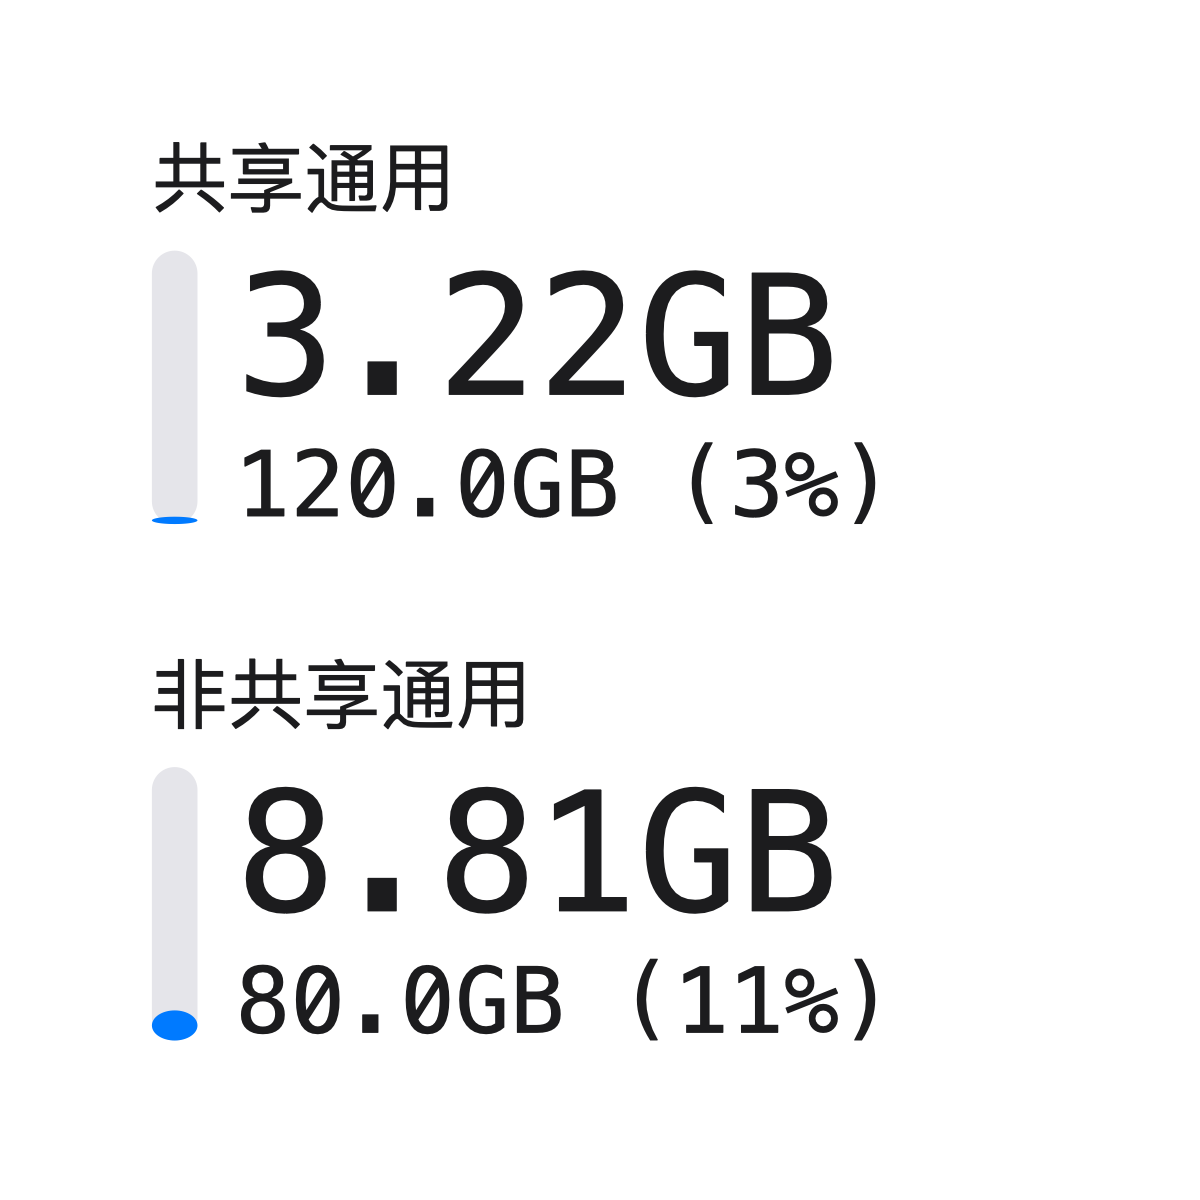
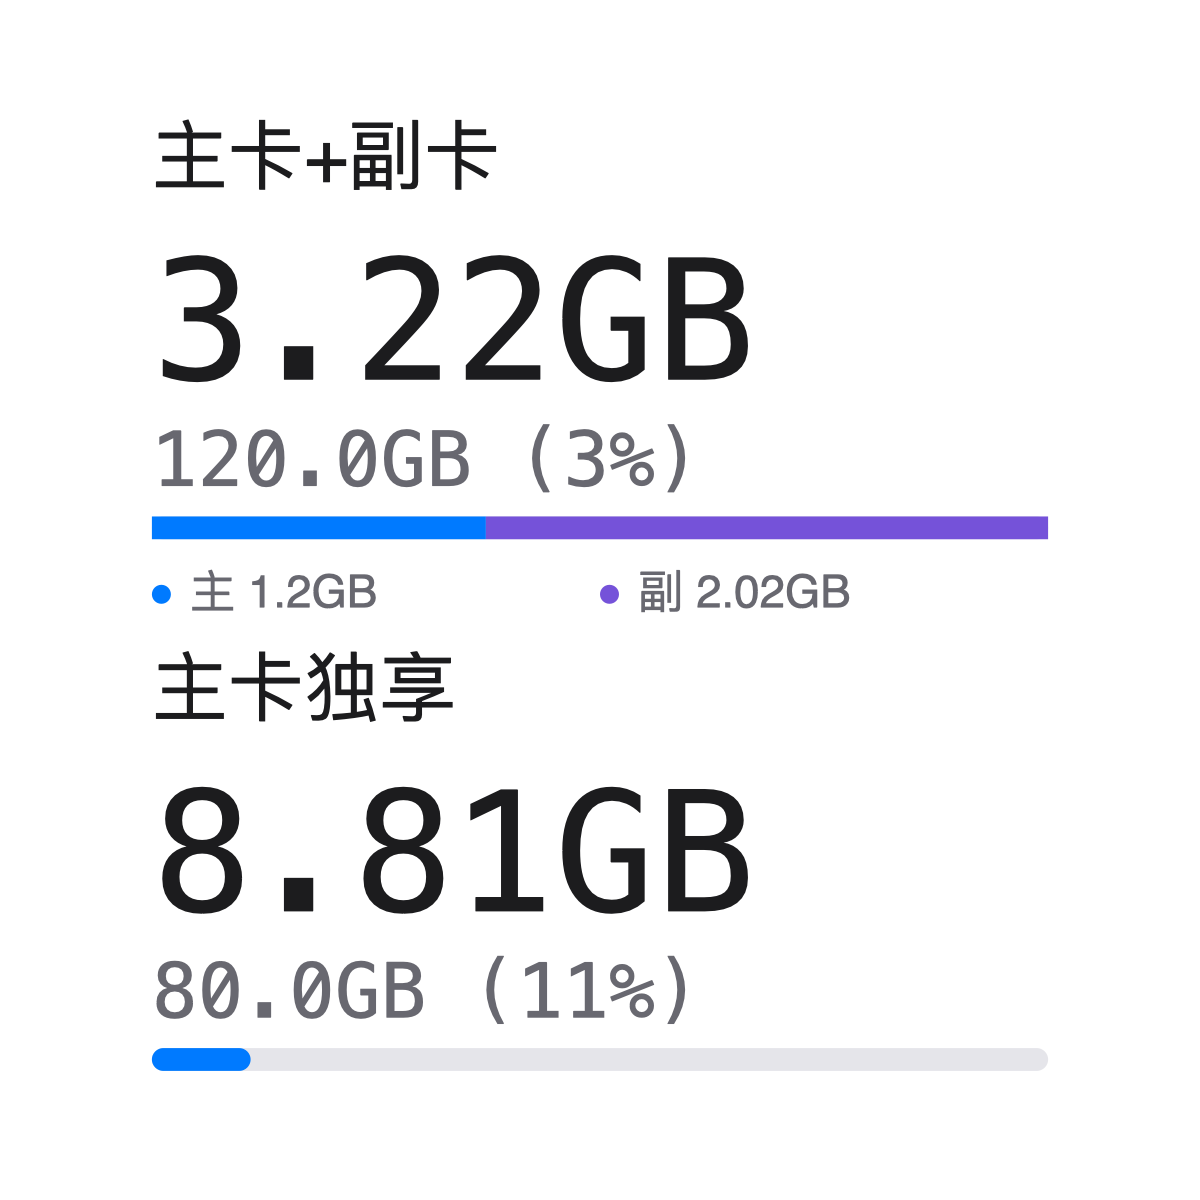
Show shared usage by card color and sync latest widget directly

Changed region(s): [[0.1233, 0.0925, 0.8942, 0.8942]]

diff --git a/docs/unicom-flow/README.md b/docs/unicom-flow/README.md
@@ -26,19 +26,17 @@
 
 ## 脚本更新
 
-首次安装使用[仓库原始脚本](https://raw.githubusercontent.com/42vio/quantumultx-scripts/main/scriptable/UnicomFlow.js)。当前版本 `1.0.7`。
+首次安装使用[仓库原始脚本](https://raw.githubusercontent.com/42vio/quantumultx-scripts/main/scriptable/UnicomFlow.js)。
 
-菜单“组件配置 → 脚本更新”下载本仓库 `main/scriptable/UnicomFlow.js`，检查文件标识和 JavaScript 语法，并读取版本号。只有仓库版本更高时才提示更新，确认后直接替换，不创建备份；相同版本或旧版本不覆盖当前脚本。
+菜单“组件配置 → 脚本更新”直接下载并同步本仓库 `main/scriptable/UnicomFlow.js`。不比较版本号，不需要二次确认，不创建备份；内容相同时提示已与仓库一致。替换前检查文件标识和 JavaScript 语法，下载或校验失败时保留原文件。
 
-自动识别本地或 iCloud 文件，脚本改名也能更新。写入后核对内容；如果写入失败，提示从仓库重新下载。下载或内容校验失败、取消更新时不替换文件。
+自动识别本地或 iCloud 文件，脚本改名也能同步。写入后核对内容；如果写入失败，提示从仓库重新下载。主题和其他 DmYY 配置、历史快照、QX Cookie 不随同步清除。同步后关闭配置页、重新运行脚本。`DmYY.js` 不参与本菜单同步。
 
-主题和其他 DmYY 配置、历史快照、QX Cookie 不随更新清除。更新后关闭配置页、重新运行脚本。`DmYY.js` 不参与本菜单的更新。
-
-已安装 `1.0.0` 的用户可以从菜单更新。后续发布时递增 `UF_VERSION`（例如 `1.0.8`），再推送脚本内容。
+脚本保留一次旧客户端迁移所需的版本常量，方便已安装版本通过原菜单升级；新版同步功能不使用它，开发期间无需递增。
 
 ## 显示规则
 
-大数字表示已用，下方表示套餐总量和已用百分比，竖条也表示已用比例。标题和数据采用更宽的安全留白；小号正常状态省略底部更新时间，避免圆角遮挡。缓存或未识别明细的提示仍保留在安全区域内。不同手机尺寸统一按设计高度缩放布局。整卡使用背景图填满组件，避免固定宽度内容图片产生边缘细线；小时标签、竖线、柱子共用每格中心点对齐。在“组件配置 → 组件主题”选择黑色或白色，默认黑色，不随系统自动变化。两种主题分别保存自定义颜色，切换后文字、刻度、背景和提示颜色一起变化；可在“颜色配置”中调整当前主题。原版本的颜色设置仅迁移到黑色主题，避免白色主题套用旧的黑底配置。不限量套餐不计算百分比；没有返回某一类明细时显示 `--`，不伪装成 0。
+大数字表示已用，下方表示套餐总量和已用百分比，主卡独享等普通套餐的横条表示已用比例；共享池的蓝紫横条表示共享已用量中主卡与副卡的构成，并非套餐消耗比例。下方标明两张卡各自的共享用量，蓝色为主卡、紫色为副卡；成员缺失或合计不符时保留灰条并提示，不推算缺失用量。标题和数据采用更宽的安全留白；小号正常状态省略底部更新时间，避免圆角遮挡。缓存或未识别明细的提示仍保留在安全区域内。不同手机尺寸统一按设计高度缩放布局。整卡使用背景图填满组件，避免固定宽度内容图片产生边缘细线；小时标签、竖线、柱子共用每格中心点对齐。在“组件配置 → 组件主题”选择黑色或白色，默认黑色，不随系统自动变化。两种主题分别保存自定义颜色，切换后文字、刻度、背景和提示颜色一起变化；可在“颜色配置”中调整当前主题。原版本的颜色设置仅迁移到黑色主题，避免白色主题套用旧的黑底配置。不限量套餐不计算百分比；没有返回某一类明细时显示 `--`，不伪装成 0。
 
 脚本调用联通的套餐明细接口 `queryOcsPackageFlowLeftContentRevisedInJune`。其明细中的 `total/use/remain` 默认以 MB 计，明确带单位的数值按单位换算；不从首页汇总值推算通用／定向数据。
 
@@ -56,7 +54,7 @@
 
 这些数值只用于说明和测试，不写死在组件中。组件按接口中的实际总量统计结转，不能再把截图中的上月 60 GB 手动加一次。
 
-同时识别到共享与非共享两组时，小号上下、中号左右显示“主卡+副卡／主卡”（按用户指定，分别对应共享通用池／非共享通用包；仅修改标题，不改变用量归属计算）；否则保留“通用／定向”布局。接口 `unshared` 分区或 `unsharedFlowList` 类型优先视为非共享；已知的两项套餐名称也提供识别。不根据 120 GB、80 GB 这两个数值猜测归属。未识别套餐可通过菜单手动指定。
+同时识别到共享与非共享两组时，小号上下、中号左右显示“主卡+副卡／主卡独享”（分别对应共享通用池／主卡独享通用包）；否则保留“通用／定向”布局。接口 `unshared` 分区或 `unsharedFlowList` 类型优先视为非共享；已知的两项套餐名称也提供识别。不根据 120 GB、80 GB 这两个数值猜测归属。未识别套餐可通过菜单手动指定。
 
 如果拆分模式下还有定向或无法确定共享属性的套餐，底部会提示“另有明细 · 点击查看”；这些明细可在“套餐分类”查看，历史图仍统计全部未排除的流量包。
 
@@ -64,7 +62,7 @@
 
 ## 主副卡用量
 
-“组件配置 → 显示方式”有两项：**统一显示**保留共享／非共享套餐视图；**主副卡分开显示**在同一个组件内左右分别显示两张卡的已用量，不新增第二个组件。菜单“账户与数据 → 主副卡用量”可逐卡查看各流量包明细。
+“组件配置 → 显示方式”有两项：**统一显示**保留共享／非共享套餐视图；**主副卡分开显示**在同一个组件内分别显示两张卡的已用量（小号上下、中号左右），不新增第二个组件。菜单“账户与数据 → 主副卡用量”可逐卡查看各流量包明细。
 
 2026-11-03 抓包核对的真实结构（脚本已按此适配，号码与字段值不外传）：
 
@@ -79,12 +77,12 @@
 - `currentLoginFlag` 只表示当前登录卡，不能据此认定主卡；`userMobile` 是加密串，不参与识别。
 - 字段名不同（例如 `subCards`）但结构是“号码 + 用量”的数组同样会识别，归入“成员明细”，不并入套餐池合计。
 - 只使用接口明确返回的逐卡用量，不用共享池总量减出缺失的另一张卡；缺失值显示 `--`。
-- “已返回明细合计”只包含接口返回的包，不保证覆盖这张卡的全部流量；非共享包缺少成员归属时不分配给主卡或副卡。
+- “已返回明细合计”只包含接口返回的包，不保证覆盖这张卡的全部流量；本账户已由用户确认：60 GB 月度套餐及结转供主副卡共享，80 GB 包只供主卡。因此分开显示时，主卡显示“共享主卡用量 + 主卡独享用量”，副卡显示接口返回的副卡用量。缺失共享主卡数据时不从共享池总量反推。套餐分类中标为非共享的通用包会按此账户规则归入主卡独享；其他账户应先核对套餐归属。
 - 接口重复且数值冲突时不合计冲突项；“成员字段检查”可复制只含字段路径、数组长度与元素字段名的报告，不含号码、Cookie 或字段值。
 
 > 1.0.3 在手机上提示“未返回成员用量”。抓包显示 App 自身请求的是 `mxx.client.10010.com` 且带表单参数 `language=chinese` 等；1.0.3 请求 `m.client.10010.com` 且不带表单体，推测因此拿不到逐卡明细。1.0.4 已改为与 App 一致的接口主机、表单体和请求头。逐卡显示仍需在手机上实测确认。
 
-> 1.0.6：依据新提供的成功 HAR，将请求表单精简为 `language=chinese`；修正通用成员扫描混入语音／短信 `use` 的问题，按资源 `type` 和 `elemType` 排除非流量明细；未知数字角色标记不再猜测主副卡。使用用户 HAR 离线核验可识别两张卡，且每张卡只保留共享流量明细。该 HAR 未返回非共享包的逐卡归属，因此不将该包分配给主卡或副卡。未重放抓包中的认证请求，也未将 HAR、Cookie 或原始响应加入仓库。在线调用与桌面显示仍需手机验证。
+> 1.0.6：依据新提供的成功 HAR，将请求表单精简为 `language=chinese`；修正通用成员扫描混入语音／短信 `use` 的问题，按资源 `type` 和 `elemType` 排除非流量明细；未知数字角色标记不再猜测主副卡。使用用户 HAR 离线核验可识别两张卡，且每张卡只保留共享流量明细。该 HAR 未返回非共享包的逐卡归属；后续经用户确认本账户 80 GB 包为主卡独享，当前展示按上述规则合并。未重放抓包中的认证请求，也未将 HAR、Cookie 或原始响应加入仓库。在线调用与桌面显示仍需手机验证。
 
 > 1.0.5 补两处：Cookie 过期时接口返回纯文本 `999999`，现在直接提示“Cookie 可能已失效”并给出重新获取的步骤；表单请求拿不到数据时自动退回 1.0.3 的不带表单请求，至少保住套餐池用量，不会整套报错。
 
@@ -121,7 +119,7 @@
 
 ![中号黑色主题](preview-medium.png)
 
-本地验证：`node tests/unicom-flow.test.cjs`。覆盖主副卡归属、脱敏、缺失和重复冲突、选卡查看、真实抓包结构（`shareData` 镜像去重、`numberFlag`/`viceCardflag` 角色）、请求体与接口主机、刻度居中和整卡背景，以及黑白主题、共享／非共享拆分、自动及手动分组、套餐字段、单位、去重、分类、缺失数据、跨日跨月、计数回退、会话隔离、乱序采样、原生绘图指令、首次运行与缓存降级，以及 Cookie 不落盘、DmYY 菜单注册与尺寸预览分支、配置页不发起账号请求。常规测试使用模拟数据，新增语音／短信成员不混入流量的回归用例。另在本机读取用户 HAR 进行离线解析核验，不保存原始响应到仓库；这不等于已验证实时查询或 iOS 原生显示。
+本地验证：`node tests/unicom-flow.test.cjs`。预览采用模拟用量，并非实时账户数据。覆盖共享构成（零用量、缺失、冲突与合计不符）、无版本号直接同步，以及主副卡归属、脱敏、缺失和重复冲突、选卡查看、真实抓包结构（`shareData` 镜像去重、`numberFlag`/`viceCardflag` 角色）、请求体与接口主机、刻度居中和整卡背景，以及黑白主题、共享／非共享拆分、自动及手动分组、套餐字段、单位、去重、分类、缺失数据、跨日跨月、计数回退、会话隔离、乱序采样、原生绘图指令、首次运行与缓存降级，以及 Cookie 不落盘、DmYY 菜单注册与尺寸预览分支、配置页不发起账号请求。常规测试使用模拟数据，新增语音／短信成员不混入流量的回归用例。另在本机读取用户 HAR 进行离线解析核验，不保存原始响应到仓库；这不等于已验证实时查询或 iOS 原生显示。
 
 参考：[Scriptable 官方 API](https://docs.scriptable.app/)、[BoxJS 官方文档](https://docs.boxjs.app/)、[联通余量公开项目](https://github.com/ChinaTelecomOperators/ChinaUnicom)。流量查询与绘图独立实现，菜单使用 dompling 的 DmYY 依赖；既有 Cookie 获取规则也来自 dompling，不新增抓取规则。
 
